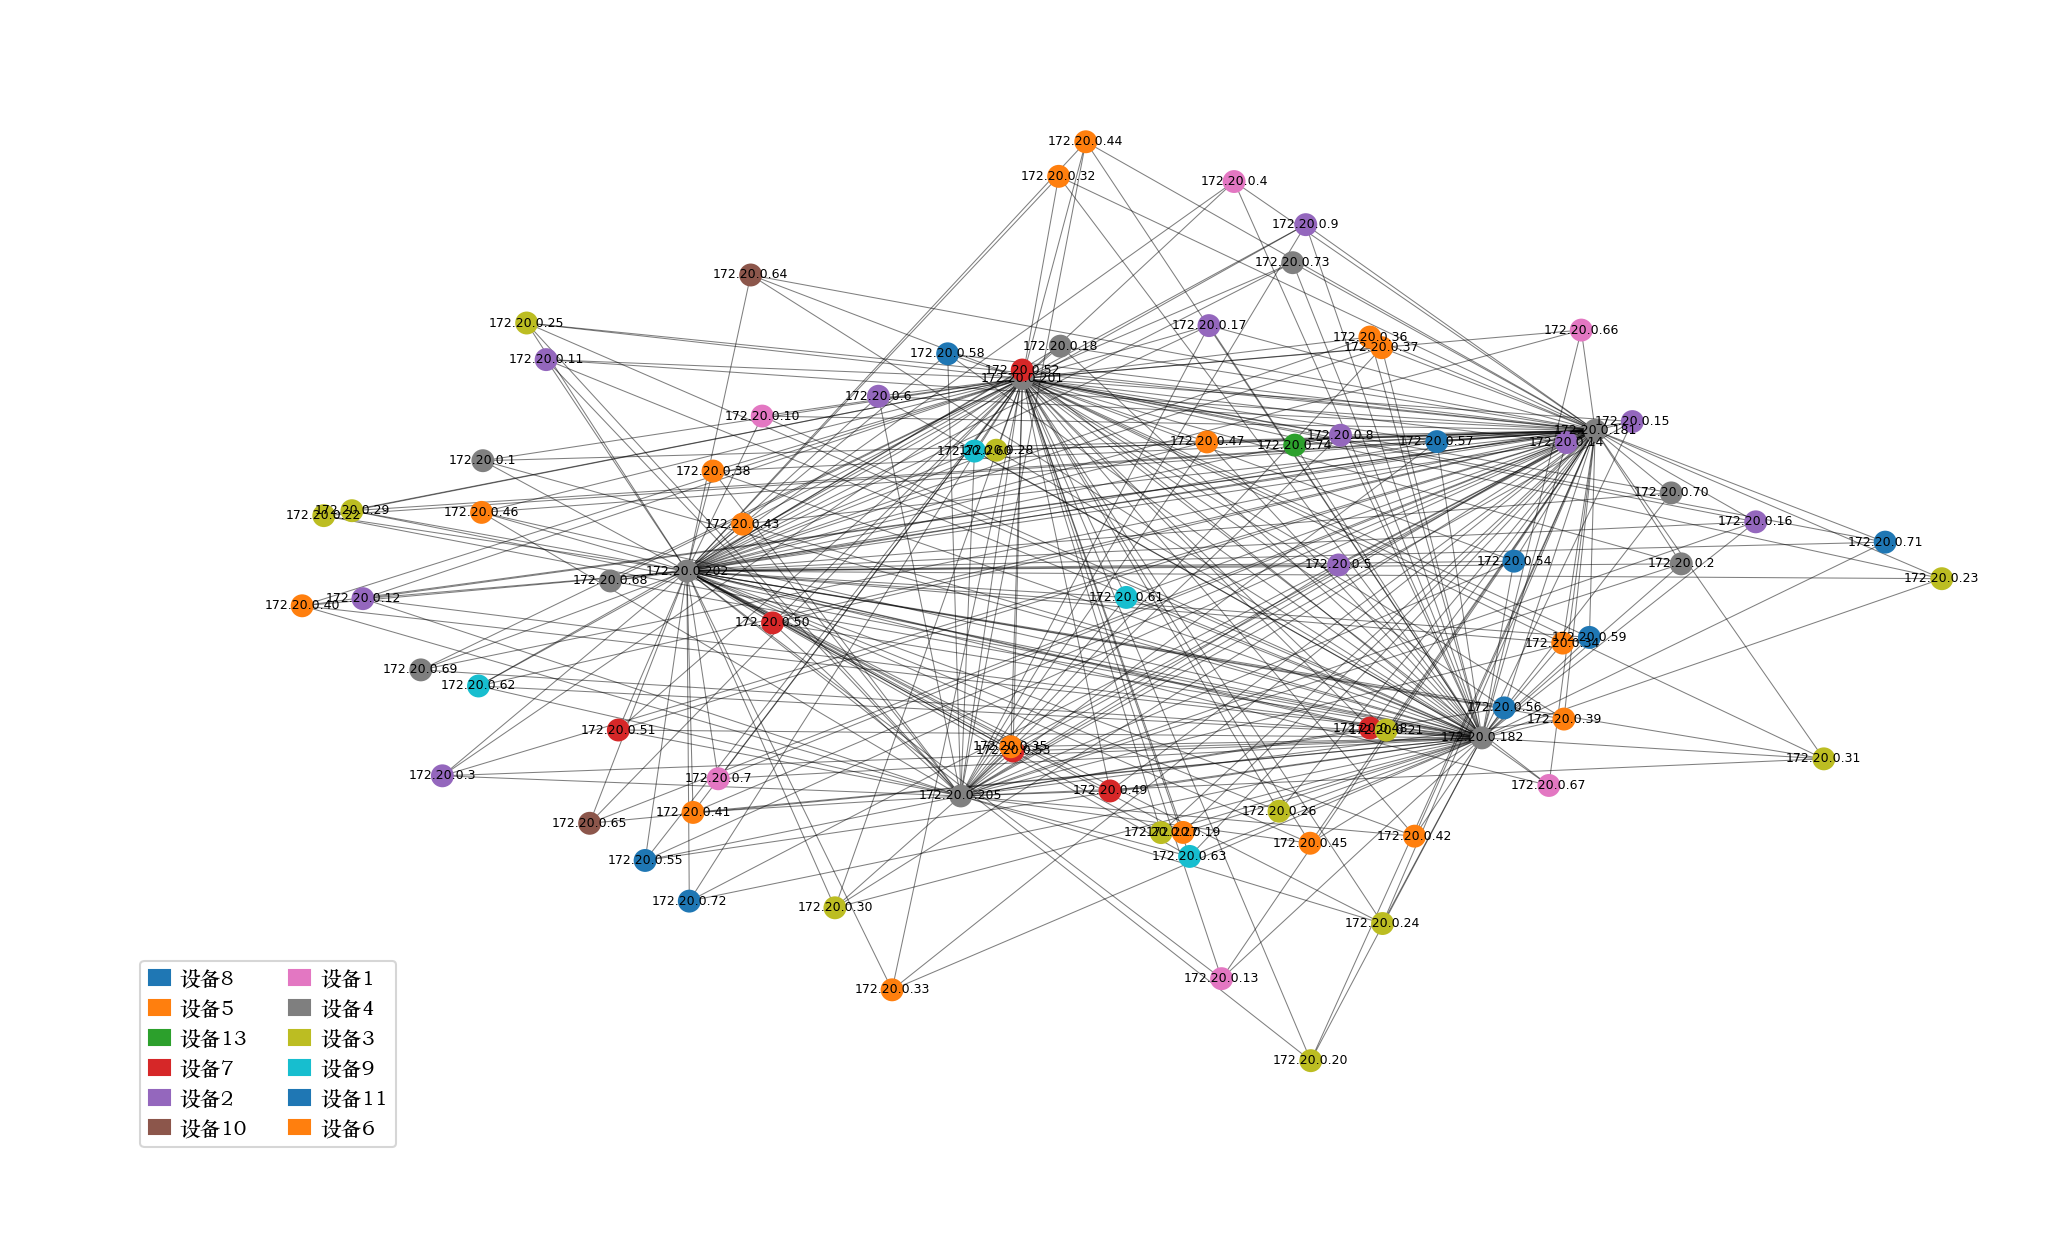
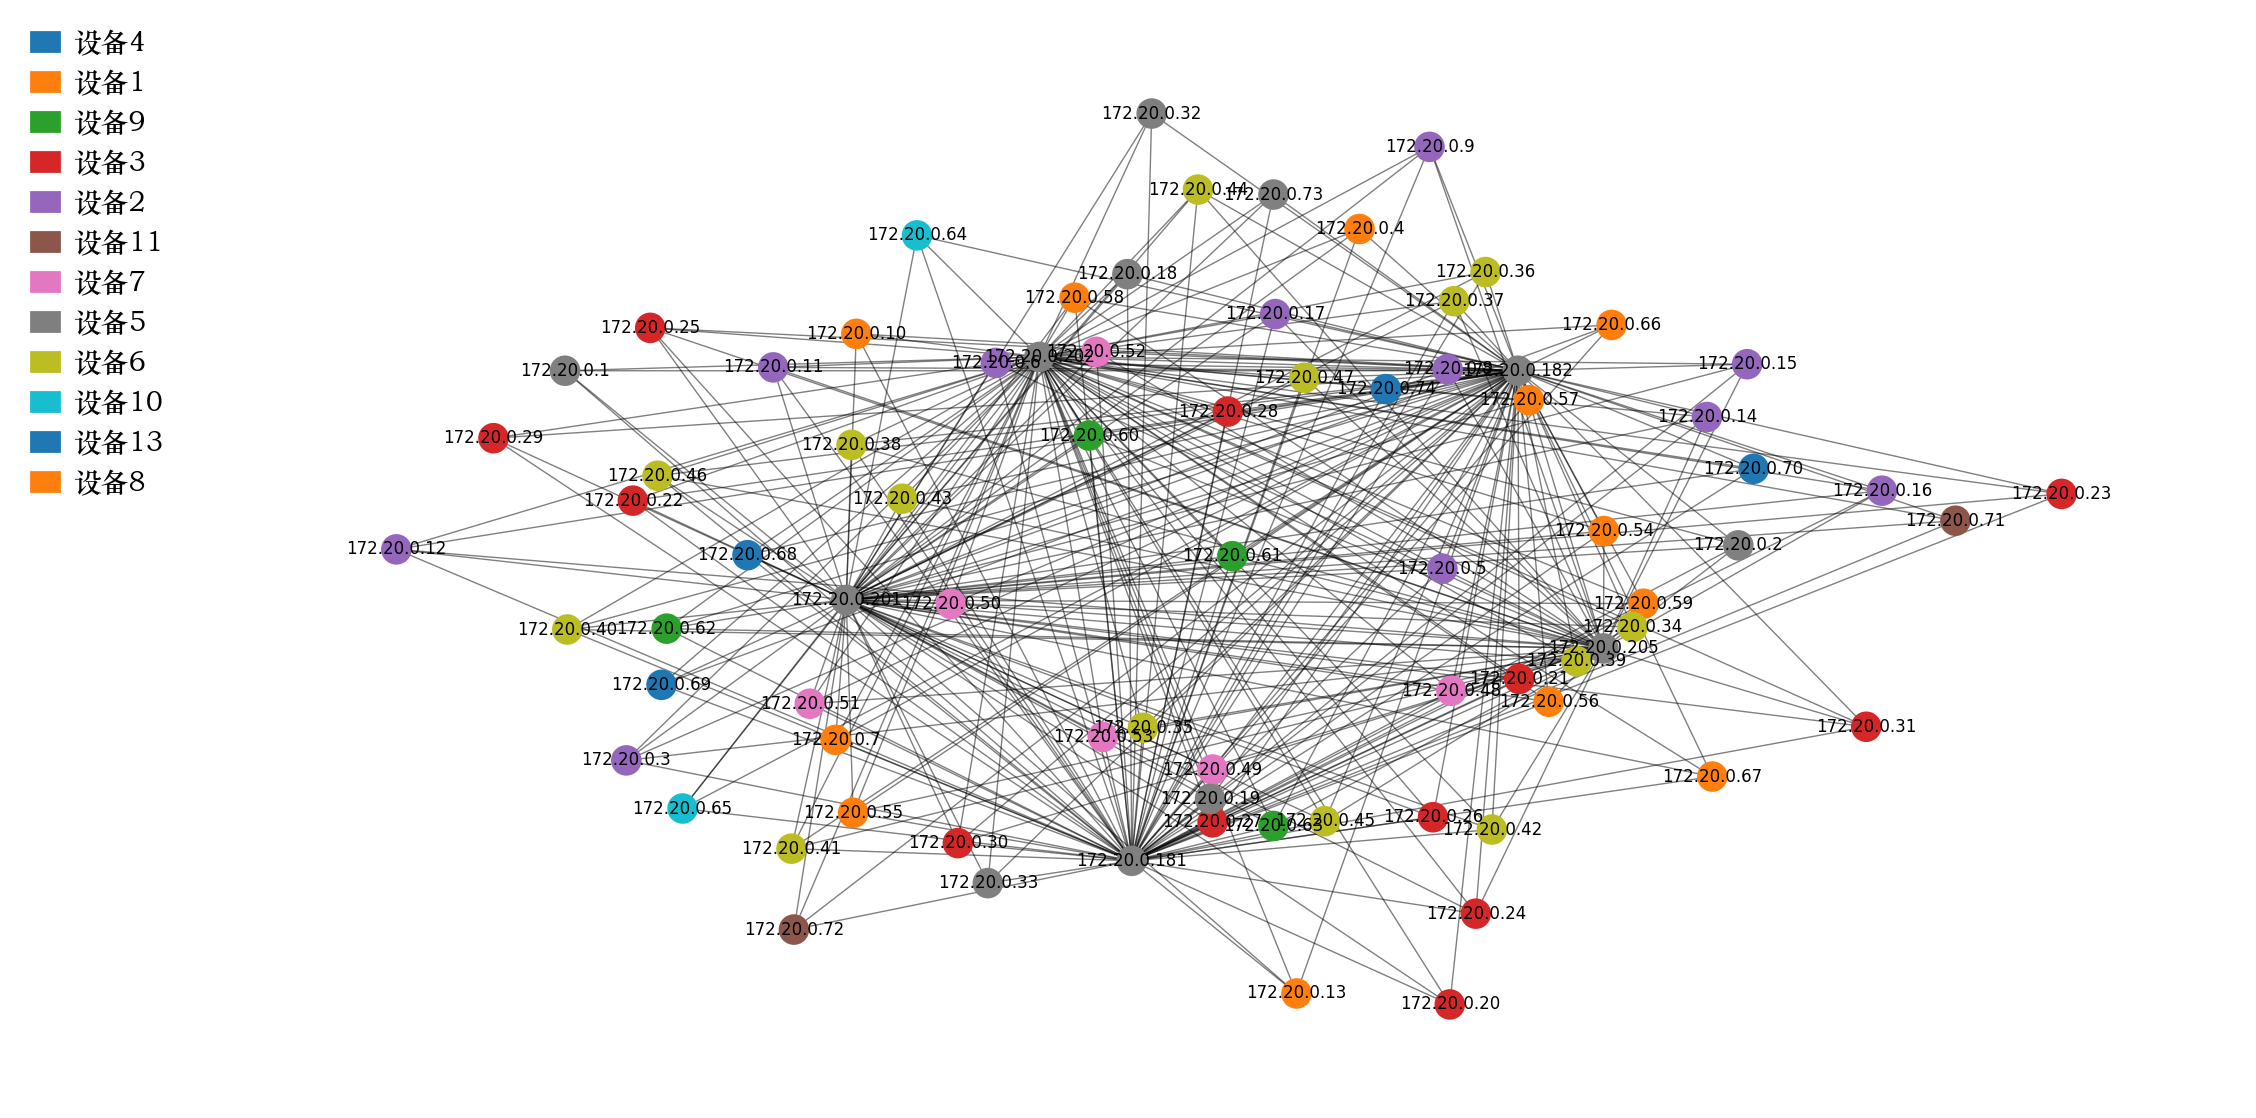
美化效果图片

diff --git a/main.py b/main.py
@@ -1,4 +1,5 @@
 import math
+import os
 import matplotlib.patches as mpatches
 import matplotlib.pyplot as plt
 from matplotlib.font_manager import FontProperties
@@ -7,13 +8,19 @@ import networkx as nx
 import numpy as np
 from scipy.spatial.distance import pdist, squareform
 
+# 设置工作目录为脚本所在目录
+os.chdir(os.path.dirname(os.path.abspath(__file__)))
+
 # 定义并加载中文字体
 font_path = './Data/txt.ttf'
 prop = FontProperties(fname=font_path)
 
+# 在绘图之前设置图形大小
+fig = plt.figure(figsize=(13, 7))  # 适当增大图形尺寸
+
 # 读取数据集
-data_set_path = './Data/DataSet.xlsx' #数据通讯记录
-device_list_path = './Data/deviceList.xlsx' #设备列表
+data_set_path = './Data/DataSet.xlsx'
+device_list_path = './Data/deviceList.xlsx'
 data = pd.read_excel(data_set_path, index_col=0)
 device_info = pd.read_excel(device_list_path)
 
@@ -113,24 +120,27 @@ nx.draw_networkx_nodes(G, pos, nodelist=G.nodes(), node_color=node_colors, node_
 nx.draw_networkx_edges(G, pos, width=0.5, alpha=0.5)
 nx.draw_networkx_labels(G, pos, font_size=6)
 
-# 添加图例
+# 添加图例，调整图例的位置和尺寸
 legend_handles = [mpatches.Patch(color=color, label=device) for device, color in color_map.items()]
-plt.legend(
-    handles=legend_handles,
-    loc='lower left',
-    bbox_to_anchor=(0, 0),
-    prop=prop,
-    fontsize=6,
-    ncol=2,
-    handlelength=1,
-    handletextpad=0.5,
-    borderaxespad=0.5,
-    scatterpoints=1
-)
-# 在图例处理中，"未知"也被包含进去
 if unknown_label in color_map.values():
     legend_handles.append(mpatches.Patch(color=default_color, label=unknown_label))
 
+# 将图例放置在一个相对位置上，使其看起来像一个独立的小图
+plt.legend(
+    handles=legend_handles,
+    loc='upper left',
+    bbox_to_anchor=(-0.1, 1),  # 将图例放置在主图的左边
+    prop=prop,
+    fontsize=6,  # 可以调整字体大小以适应图例区域
+    ncol=1,
+    frameon=False,  # 移除图例的边框
+    handlelength=1,
+    handletextpad=0.5,
+    borderaxespad=0,
+    scatterpoints=1
+)
+
 # 显示图形
 plt.axis('off')
+fig.savefig('NTD.png', dpi=200, bbox_inches='tight')
 plt.show()

diff --git a/README.md b/README.md
@@ -6,4 +6,4 @@
 先从excel里挑选出交互节点最多的几个，将这几个节点作为几个区域的核心，先将核心节点布局好，然后再将其他节点放在和这些结点四周
 
 效果图
-![img.png](NTD.png)
+![NTD.png](NTD.png)
